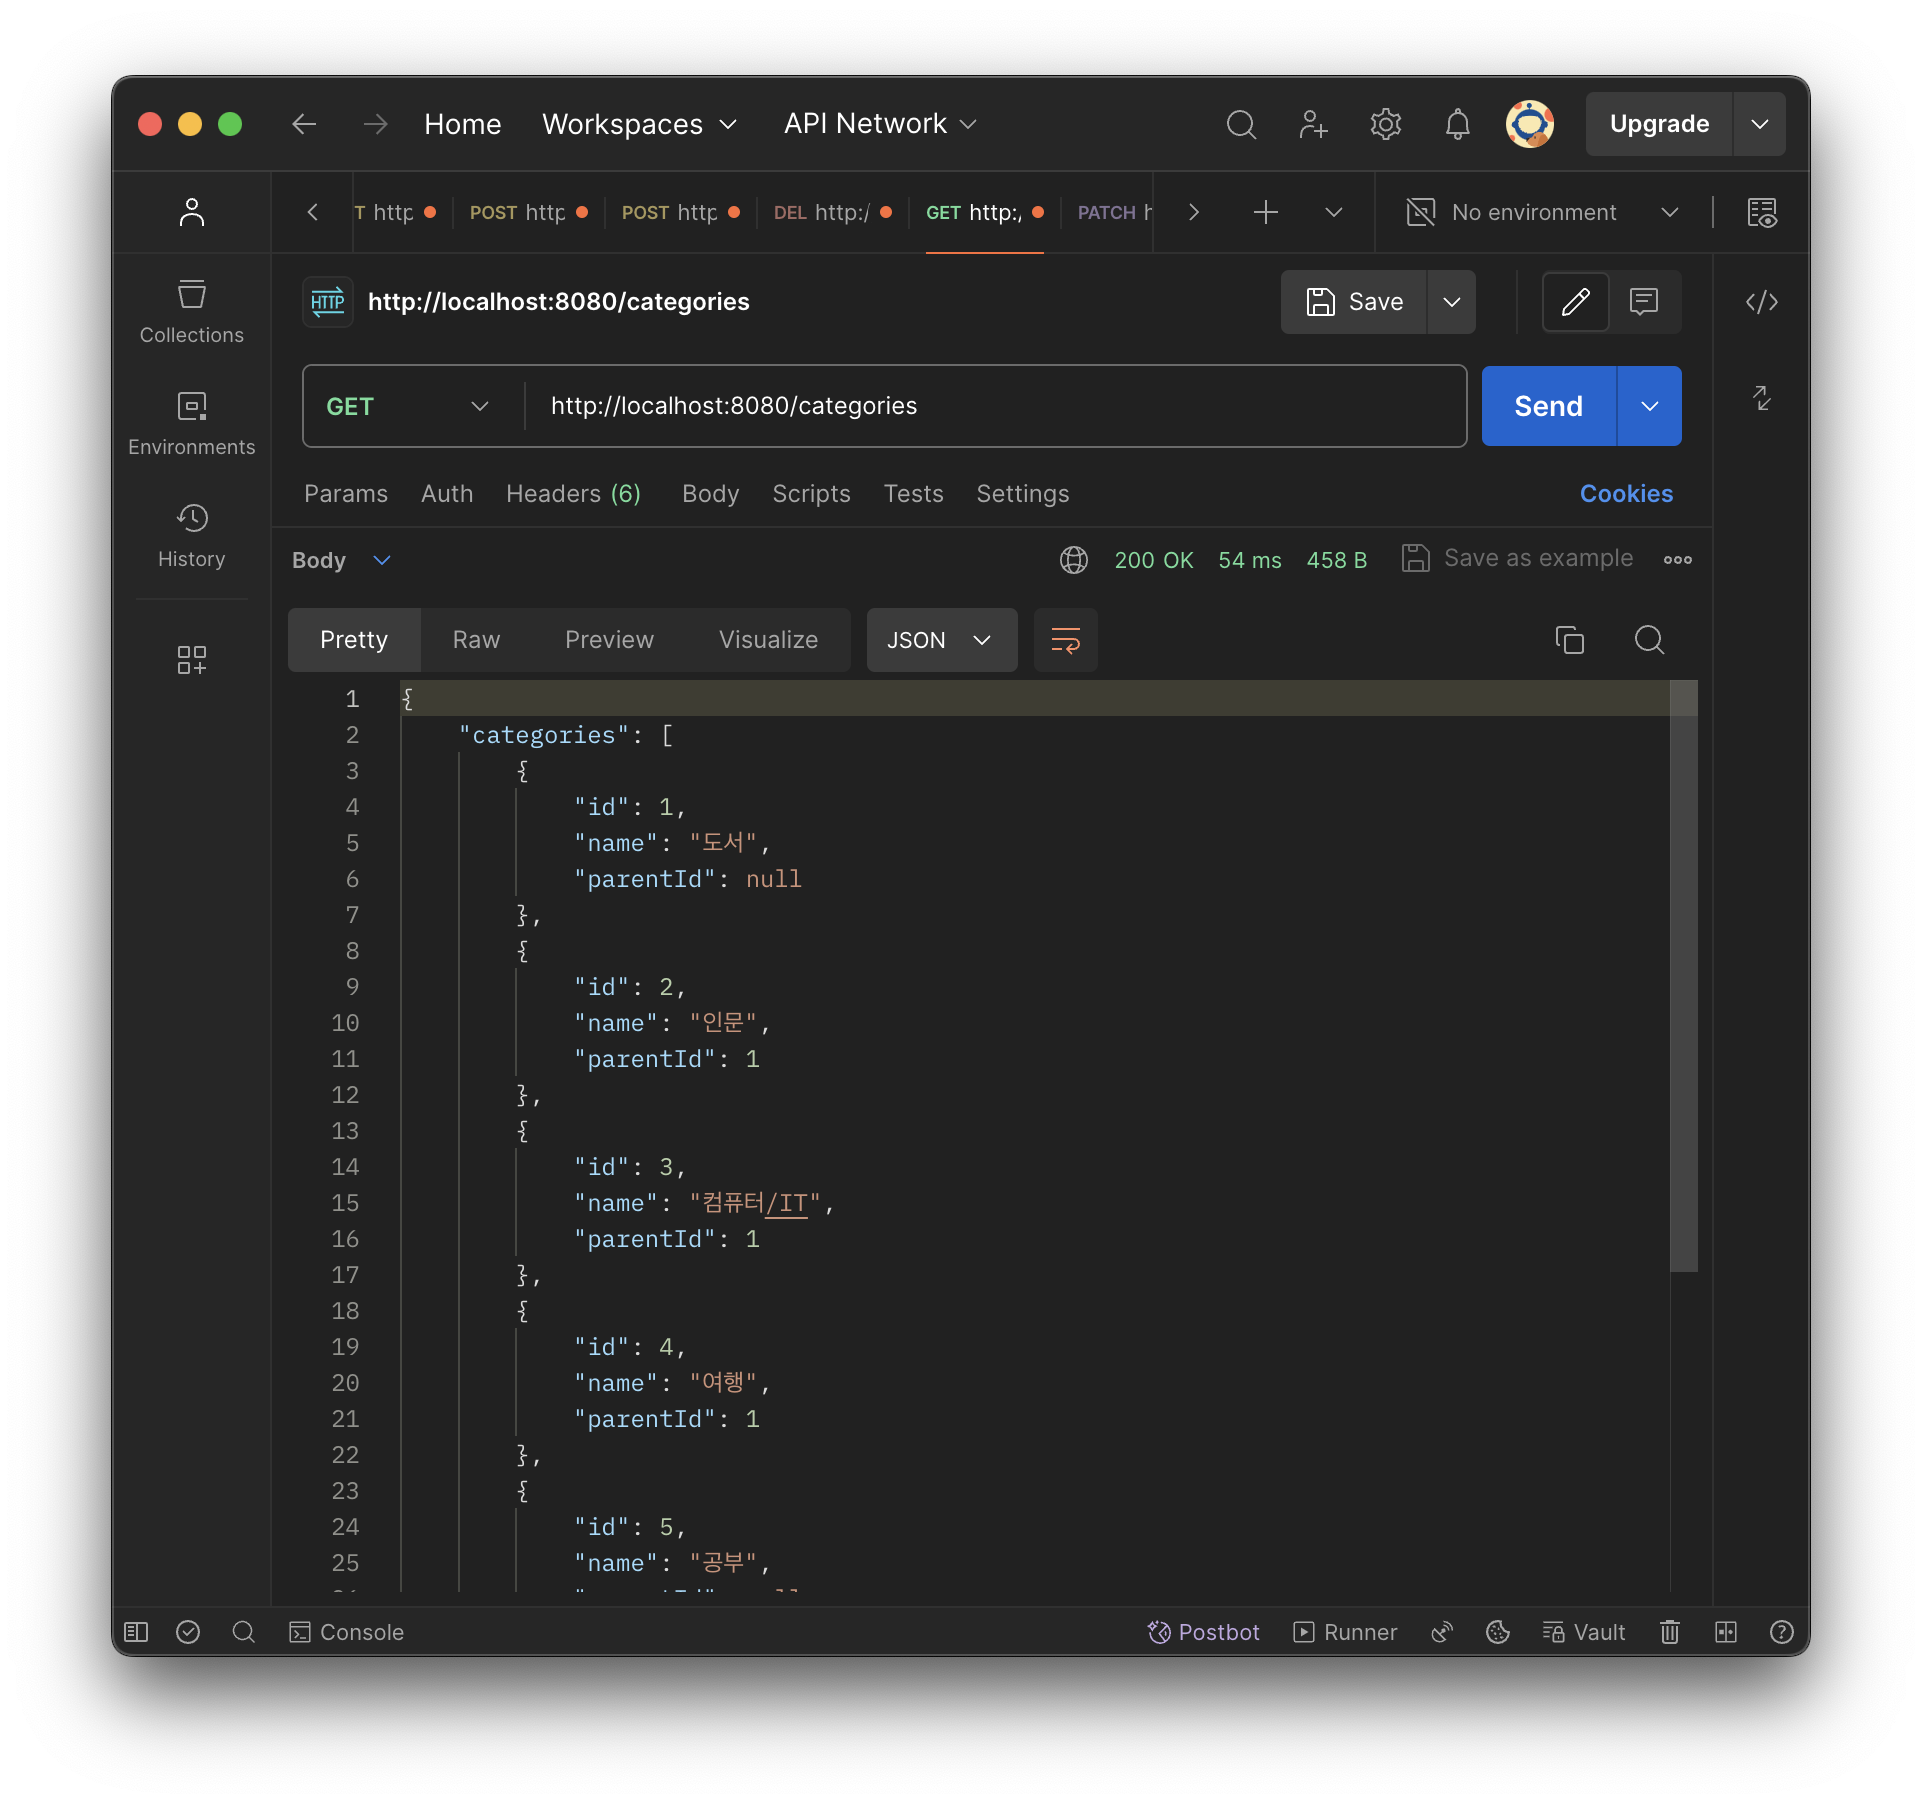
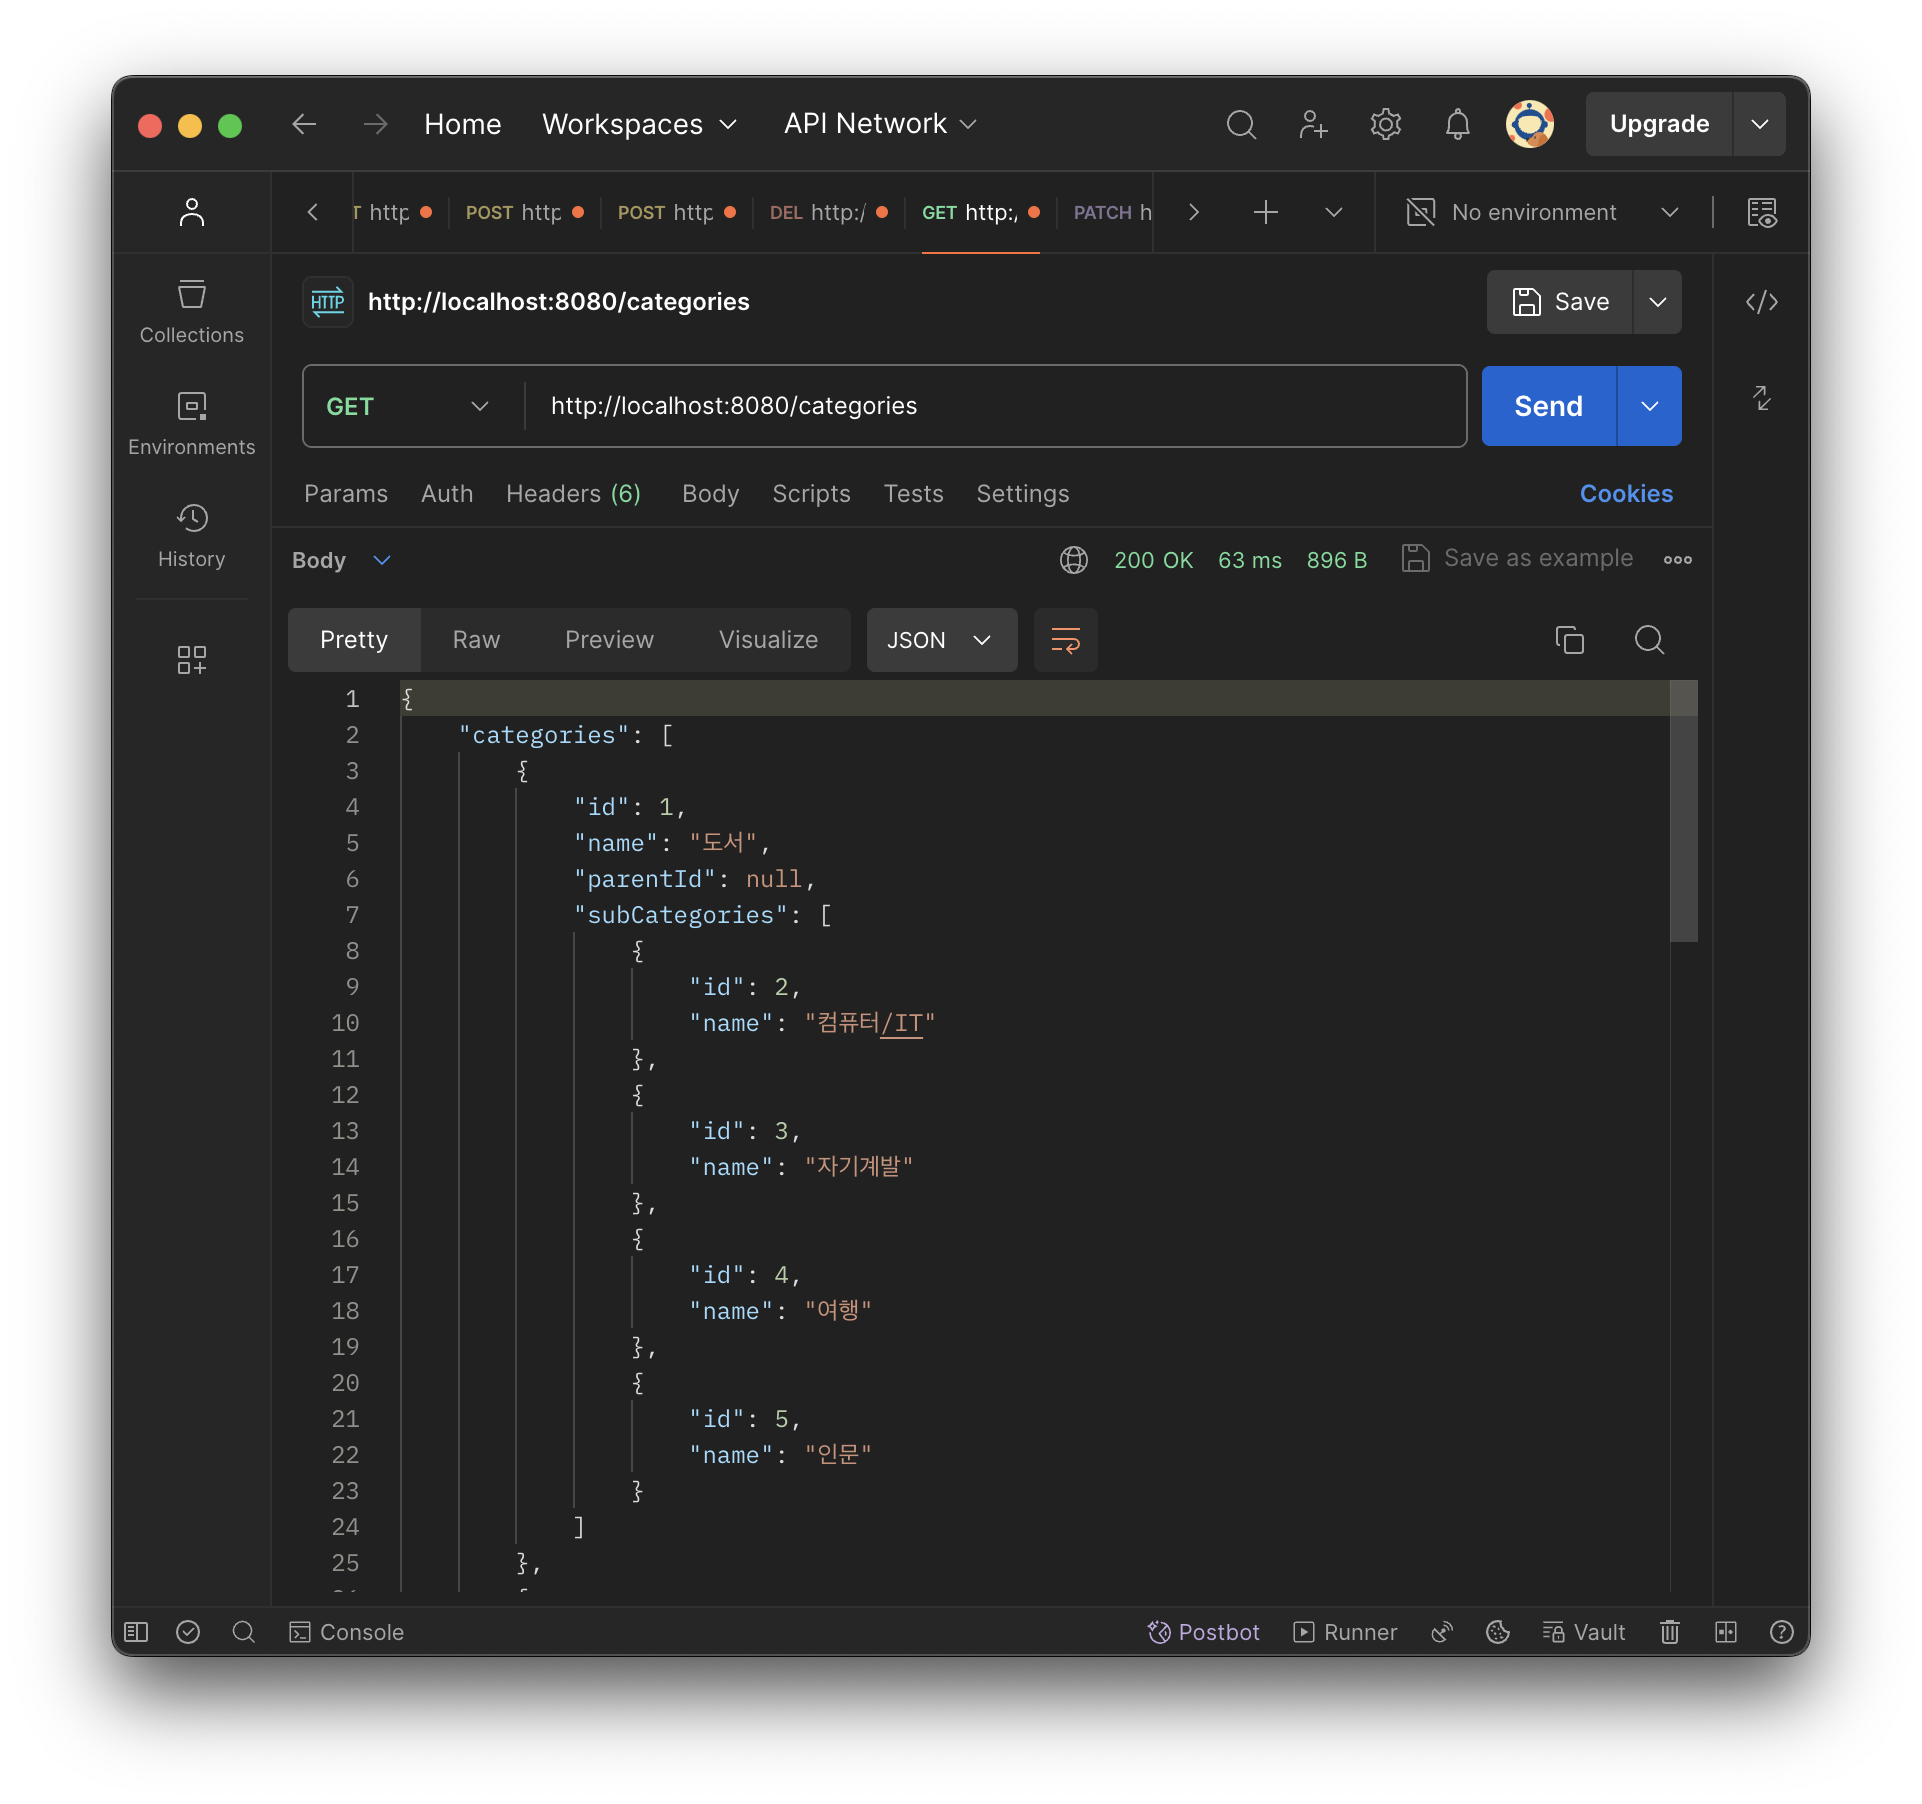
fix: subCategories 관련 로직 수정

diff --git a/kangduoh/likelion-assignment-crud/src/main/java/org/likelion/likelionassignmentcrud/category/application/CategoryService.java b/kangduoh/likelion-assignment-crud/src/main/java/org/likelion/likelionassignmentcrud/category/application/CategoryService.java
@@ -6,7 +6,11 @@ import org.likelion.likelionassignmentcrud.category.api.dto.request.CategoryUpda
 import org.likelion.likelionassignmentcrud.category.api.dto.response.CategoryInfoResDto;
 import org.likelion.likelionassignmentcrud.category.api.dto.response.CategoryListResDto;
 import org.likelion.likelionassignmentcrud.category.domain.Category;
+import org.likelion.likelionassignmentcrud.category.domain.CategoryItem;
+import org.likelion.likelionassignmentcrud.category.domain.repository.CategoryItemRepository;
 import org.likelion.likelionassignmentcrud.category.domain.repository.CategoryRepository;
+import org.likelion.likelionassignmentcrud.item.domain.Item;
+import org.likelion.likelionassignmentcrud.item.domain.repository.ItemRepository;
 import org.springframework.stereotype.Service;
 import org.springframework.transaction.annotation.Transactional;
 
@@ -18,6 +22,8 @@ import java.util.List;
 public class CategoryService {
 
     private final CategoryRepository categoryRepository;
+    private final CategoryItemRepository categoryItemRepository;
+    private final ItemRepository itemRepository;
 
     @Transactional
     public void categorySave(CategorySaveReqDto categorySaveReqDto) {
@@ -68,6 +74,12 @@ public class CategoryService {
         Category category = categoryRepository.findById(categoryId)
                 .orElseThrow(() -> new IllegalArgumentException("해당 카테고리가 없습니다."));
 
+        List<CategoryItem> categoryItems = categoryItemRepository.findAllByCategory(category);
+        for (CategoryItem categoryItem : categoryItems) {
+            Item item = categoryItem.getItem();
+            categoryItemRepository.deleteAll(categoryItemRepository.findAllByItem(item));
+            itemRepository.delete(item);
+        }
         categoryRepository.delete(category);
     }
 }

diff --git a/kangduoh/likelion-assignment-crud/src/main/java/org/likelion/likelionassignmentcrud/category/api/dto/response/CategoryInfoResDto.java b/kangduoh/likelion-assignment-crud/src/main/java/org/likelion/likelionassignmentcrud/category/api/dto/response/CategoryInfoResDto.java
@@ -3,11 +3,15 @@ package org.likelion.likelionassignmentcrud.category.api.dto.response;
 import lombok.Builder;
 import org.likelion.likelionassignmentcrud.category.domain.Category;
 
+import java.util.List;
+import java.util.stream.Collectors;
+
 @Builder
 public record CategoryInfoResDto(
         Long id,
         String name,
-        Long parentId
+        Long parentId,
+        List<SubCategoryResDto> subCategories
 ) {
     public static CategoryInfoResDto from(Category category) {
         Long parentId = category.getParent() != null ? category.getParent().getId() : null;
@@ -15,6 +19,7 @@ public record CategoryInfoResDto(
                 .id(category.getId())
                 .name(category.getName())
                 .parentId(parentId)
+                .subCategories(category.getSubCategories().stream().map(SubCategoryResDto::from).collect(Collectors.toList()))
                 .build();
     }
 }

diff --git a/kangduoh/likelion-assignment-crud/src/main/java/org/likelion/likelionassignmentcrud/item/application/ItemService.java b/kangduoh/likelion-assignment-crud/src/main/java/org/likelion/likelionassignmentcrud/item/application/ItemService.java
@@ -70,7 +70,7 @@ public class ItemService {
 
         item.update(itemUpdateReqDto);
 
-        List<CategoryItem> categoryItems = categoryItemRepository.findByItem(item);
+        List<CategoryItem> categoryItems = categoryItemRepository.findAllByItem(item);
         categoryItemRepository.deleteAll(categoryItems);
 
         Category category = categoryRepository.findById(itemUpdateReqDto.categoryId())
@@ -89,7 +89,7 @@ public class ItemService {
         Item item = itemRepository.findById(itemId)
                 .orElseThrow(() -> new IllegalArgumentException("해당 상품이 없습니다."));
 
-        List<CategoryItem> categoryItems = categoryItemRepository.findByItem(item);
+        List<CategoryItem> categoryItems = categoryItemRepository.findAllByItem(item);
         categoryItemRepository.deleteAll(categoryItems);
 
         itemRepository.delete(item);

diff --git a/kangduoh/likelion-assignment-crud/src/main/java/org/likelion/likelionassignmentcrud/category/domain/repository/CategoryItemRepository.java b/kangduoh/likelion-assignment-crud/src/main/java/org/likelion/likelionassignmentcrud/category/domain/repository/CategoryItemRepository.java
@@ -1,17 +1,13 @@
 package org.likelion.likelionassignmentcrud.category.domain.repository;
 
+import org.likelion.likelionassignmentcrud.category.domain.Category;
 import org.likelion.likelionassignmentcrud.category.domain.CategoryItem;
 import org.likelion.likelionassignmentcrud.item.domain.Item;
 import org.springframework.data.jpa.repository.JpaRepository;
-import org.springframework.data.jpa.repository.Query;
 
 import java.util.List;
 
 public interface CategoryItemRepository extends JpaRepository<CategoryItem, Long> {
-    @Query("SELECT ci " +
-            "FROM CategoryItem ci " +
-            "JOIN FETCH ci.category c " +
-            "JOIN FETCH ci.item i " +
-            "WHERE ci.item = :item")
-    List<CategoryItem> findByItem(Item item);
+    List<CategoryItem> findAllByItem(Item item);
+    List<CategoryItem> findAllByCategory(Category category);
 }

diff --git a/kangduoh/likelion-assignment-crud/src/main/java/org/likelion/likelionassignmentcrud/category/api/dto/response/SubCategoryResDto.java b/kangduoh/likelion-assignment-crud/src/main/java/org/likelion/likelionassignmentcrud/category/api/dto/response/SubCategoryResDto.java
@@ -1,0 +1,17 @@
+package org.likelion.likelionassignmentcrud.category.api.dto.response;
+
+import lombok.Builder;
+import org.likelion.likelionassignmentcrud.category.domain.Category;
+
+@Builder
+public record SubCategoryResDto(
+        Long id,
+        String name
+) {
+    public static SubCategoryResDto from(Category category) {
+        return SubCategoryResDto.builder()
+                .id(category.getId())
+                .name(category.getName())
+                .build();
+    }
+}
